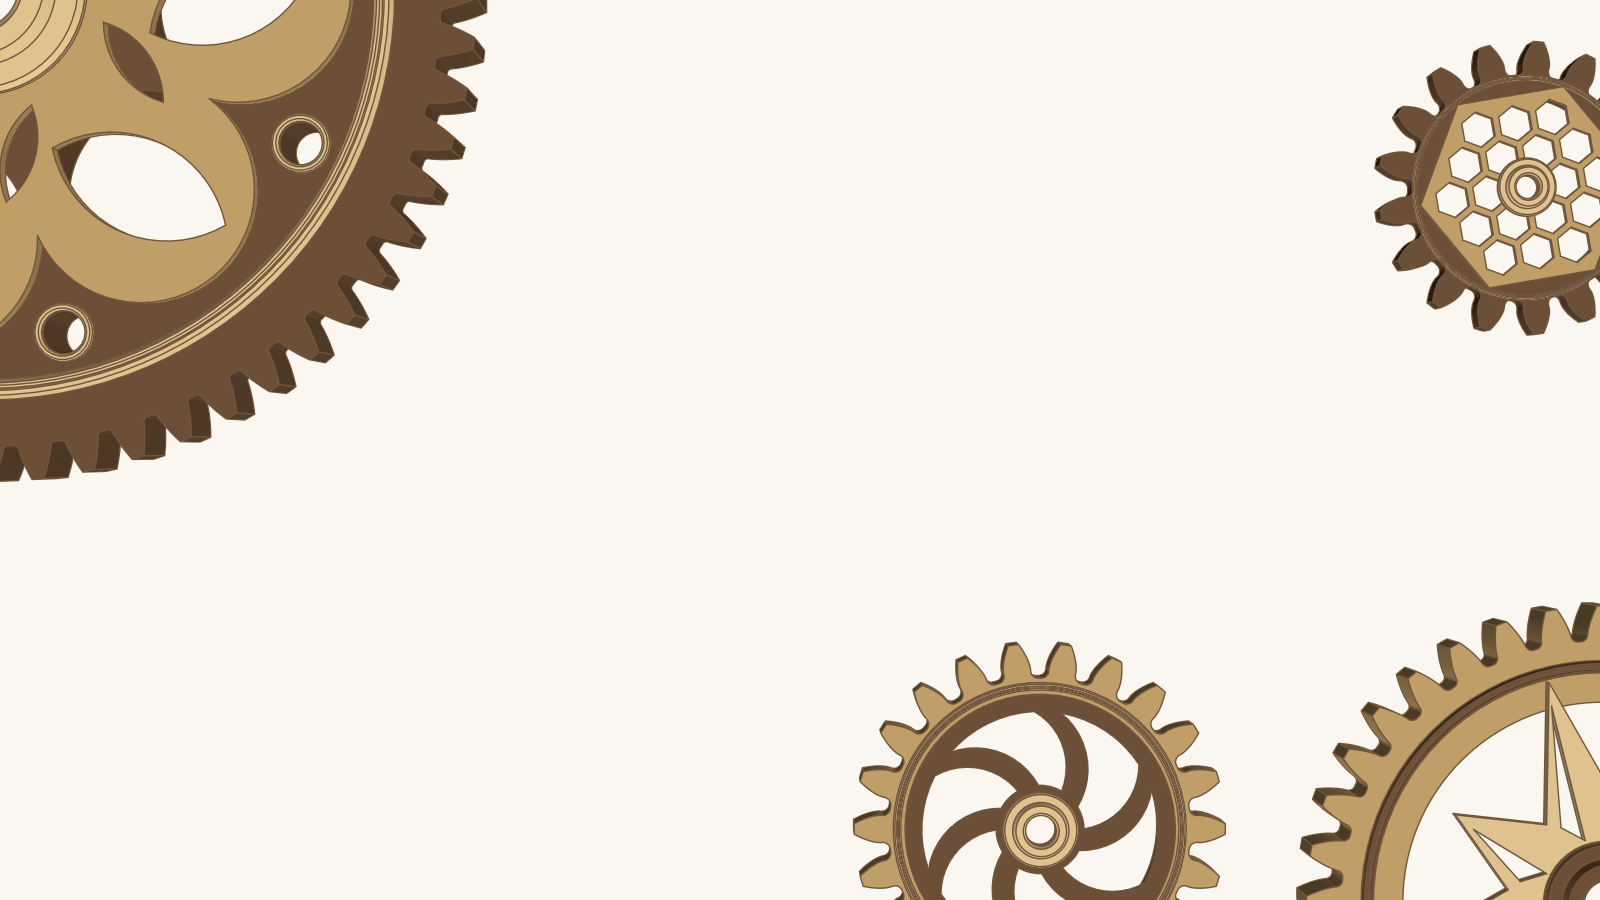
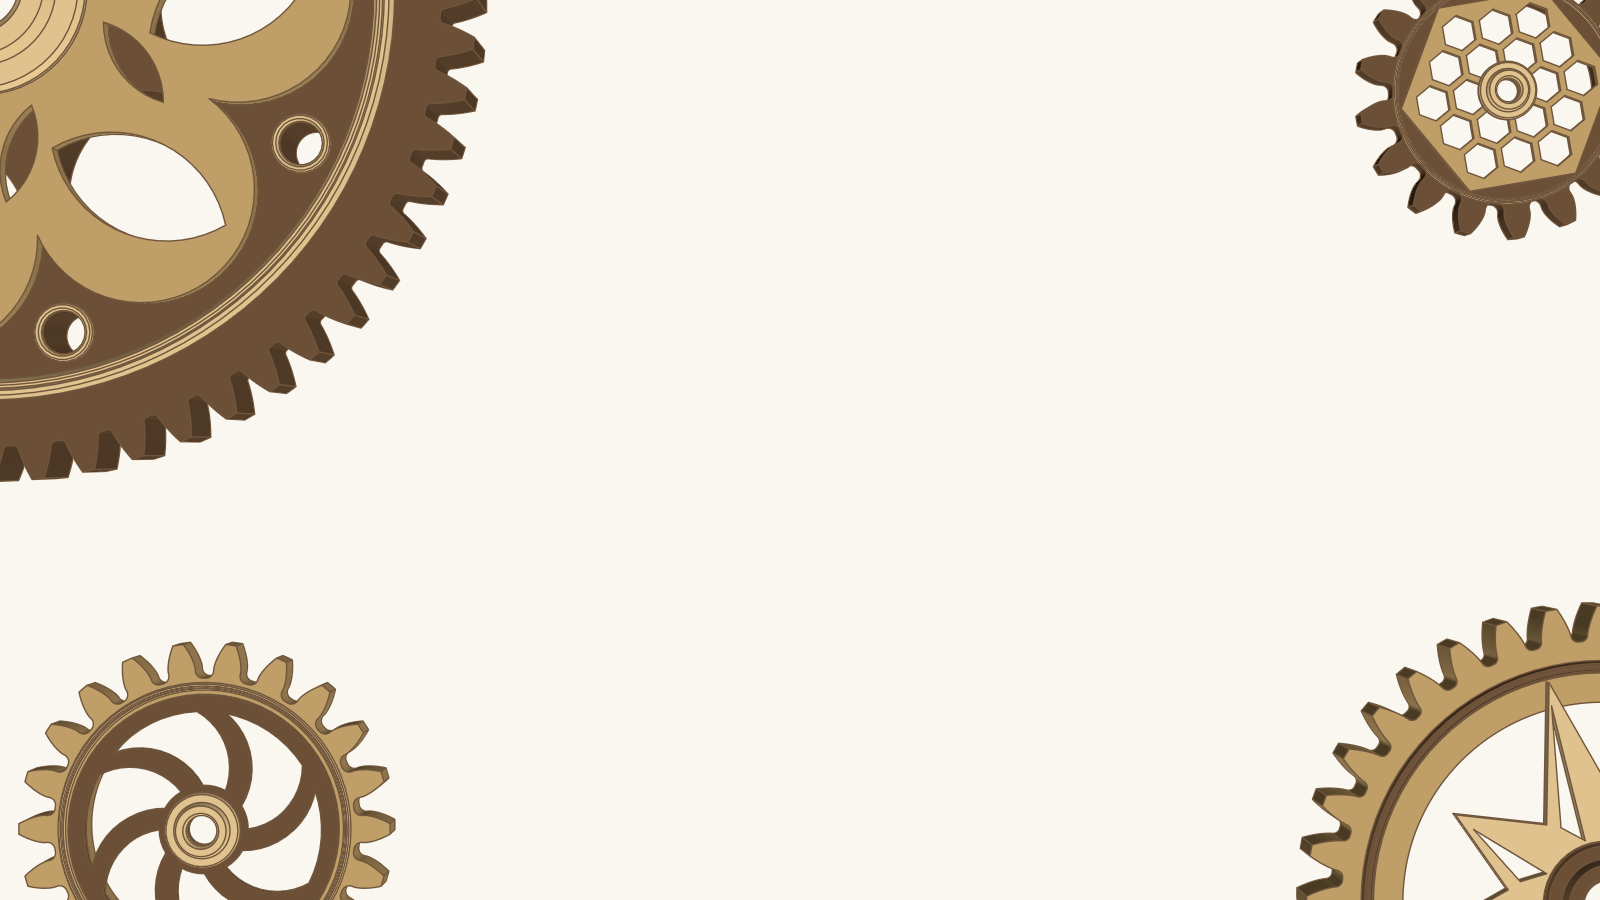
place gears at the image corners

Changed region(s): [[0.0, 0.7156, 0.25, 1.0], [0.5312, 0.7156, 0.7812, 1.0], [0.8438, 0.0, 1.0, 0.3733]]

diff --git a/tools/render/ornamental_gears.go b/tools/render/ornamental_gears.go
@@ -38,8 +38,8 @@ func ornamentalGears(ctx context.Context) (solidlens.Scene, error) {
 	wheels := []ornamentalWheel{
 		{60, rosette, r3.NewVec(-96, 49, 0), bronze, brass, burnished},
 		{36, compass, r3.NewVec(110, -67, 0), brass, burnished, bronze},
-		{22, vanes, r3.NewVec(38, -58, 0), brass, bronze, burnished},
-		{17, honeycomb, r3.NewVec(101, 25, 0), bronze, brass, burnished},
+		{22, vanes, r3.NewVec(-70, -58, 0), brass, bronze, burnished},
+		{17, honeycomb, r3.NewVec(98.5, 37.5, 0), bronze, brass, burnished},
 	}
 	scene := solidlens.Scene{
 		Camera: solidlens.Camera{Position: r3.NewVec(7, -9, 255), Target: r3.NewVec(7, -9, 2),

diff --git a/docs/rendering.md b/docs/rendering.md
@@ -380,7 +380,8 @@ A single preset renders with `-model swisslever -shot <name> -out <file>`, for e
 `-shot exploded -out ../../models/swisslever/images/exploded.png`.
 
 The `gallery/hero` preset renders four ornamental spur gears in antique brass and dark bronze at 1600 × 900.
-The top view crops the largest gear at the upper-left corner and the other gears at the right and bottom edges.
+The top view crops each gear against an image edge: gear 1 at the upper left, gear 2 at the lower right,
+gear 3 at the lower left, and gear 4 at the upper right.
 It builds each toothed wheel with `models/spurgear`. The largest wheel has a seven-petal rosette above
 two rings of drilled openings. The other wheels have an eight-point compass rose with triangular openings,
 six swept vanes, and a hexagonal grille with eighteen cells. Revolved profiles form the stepped hubs,
